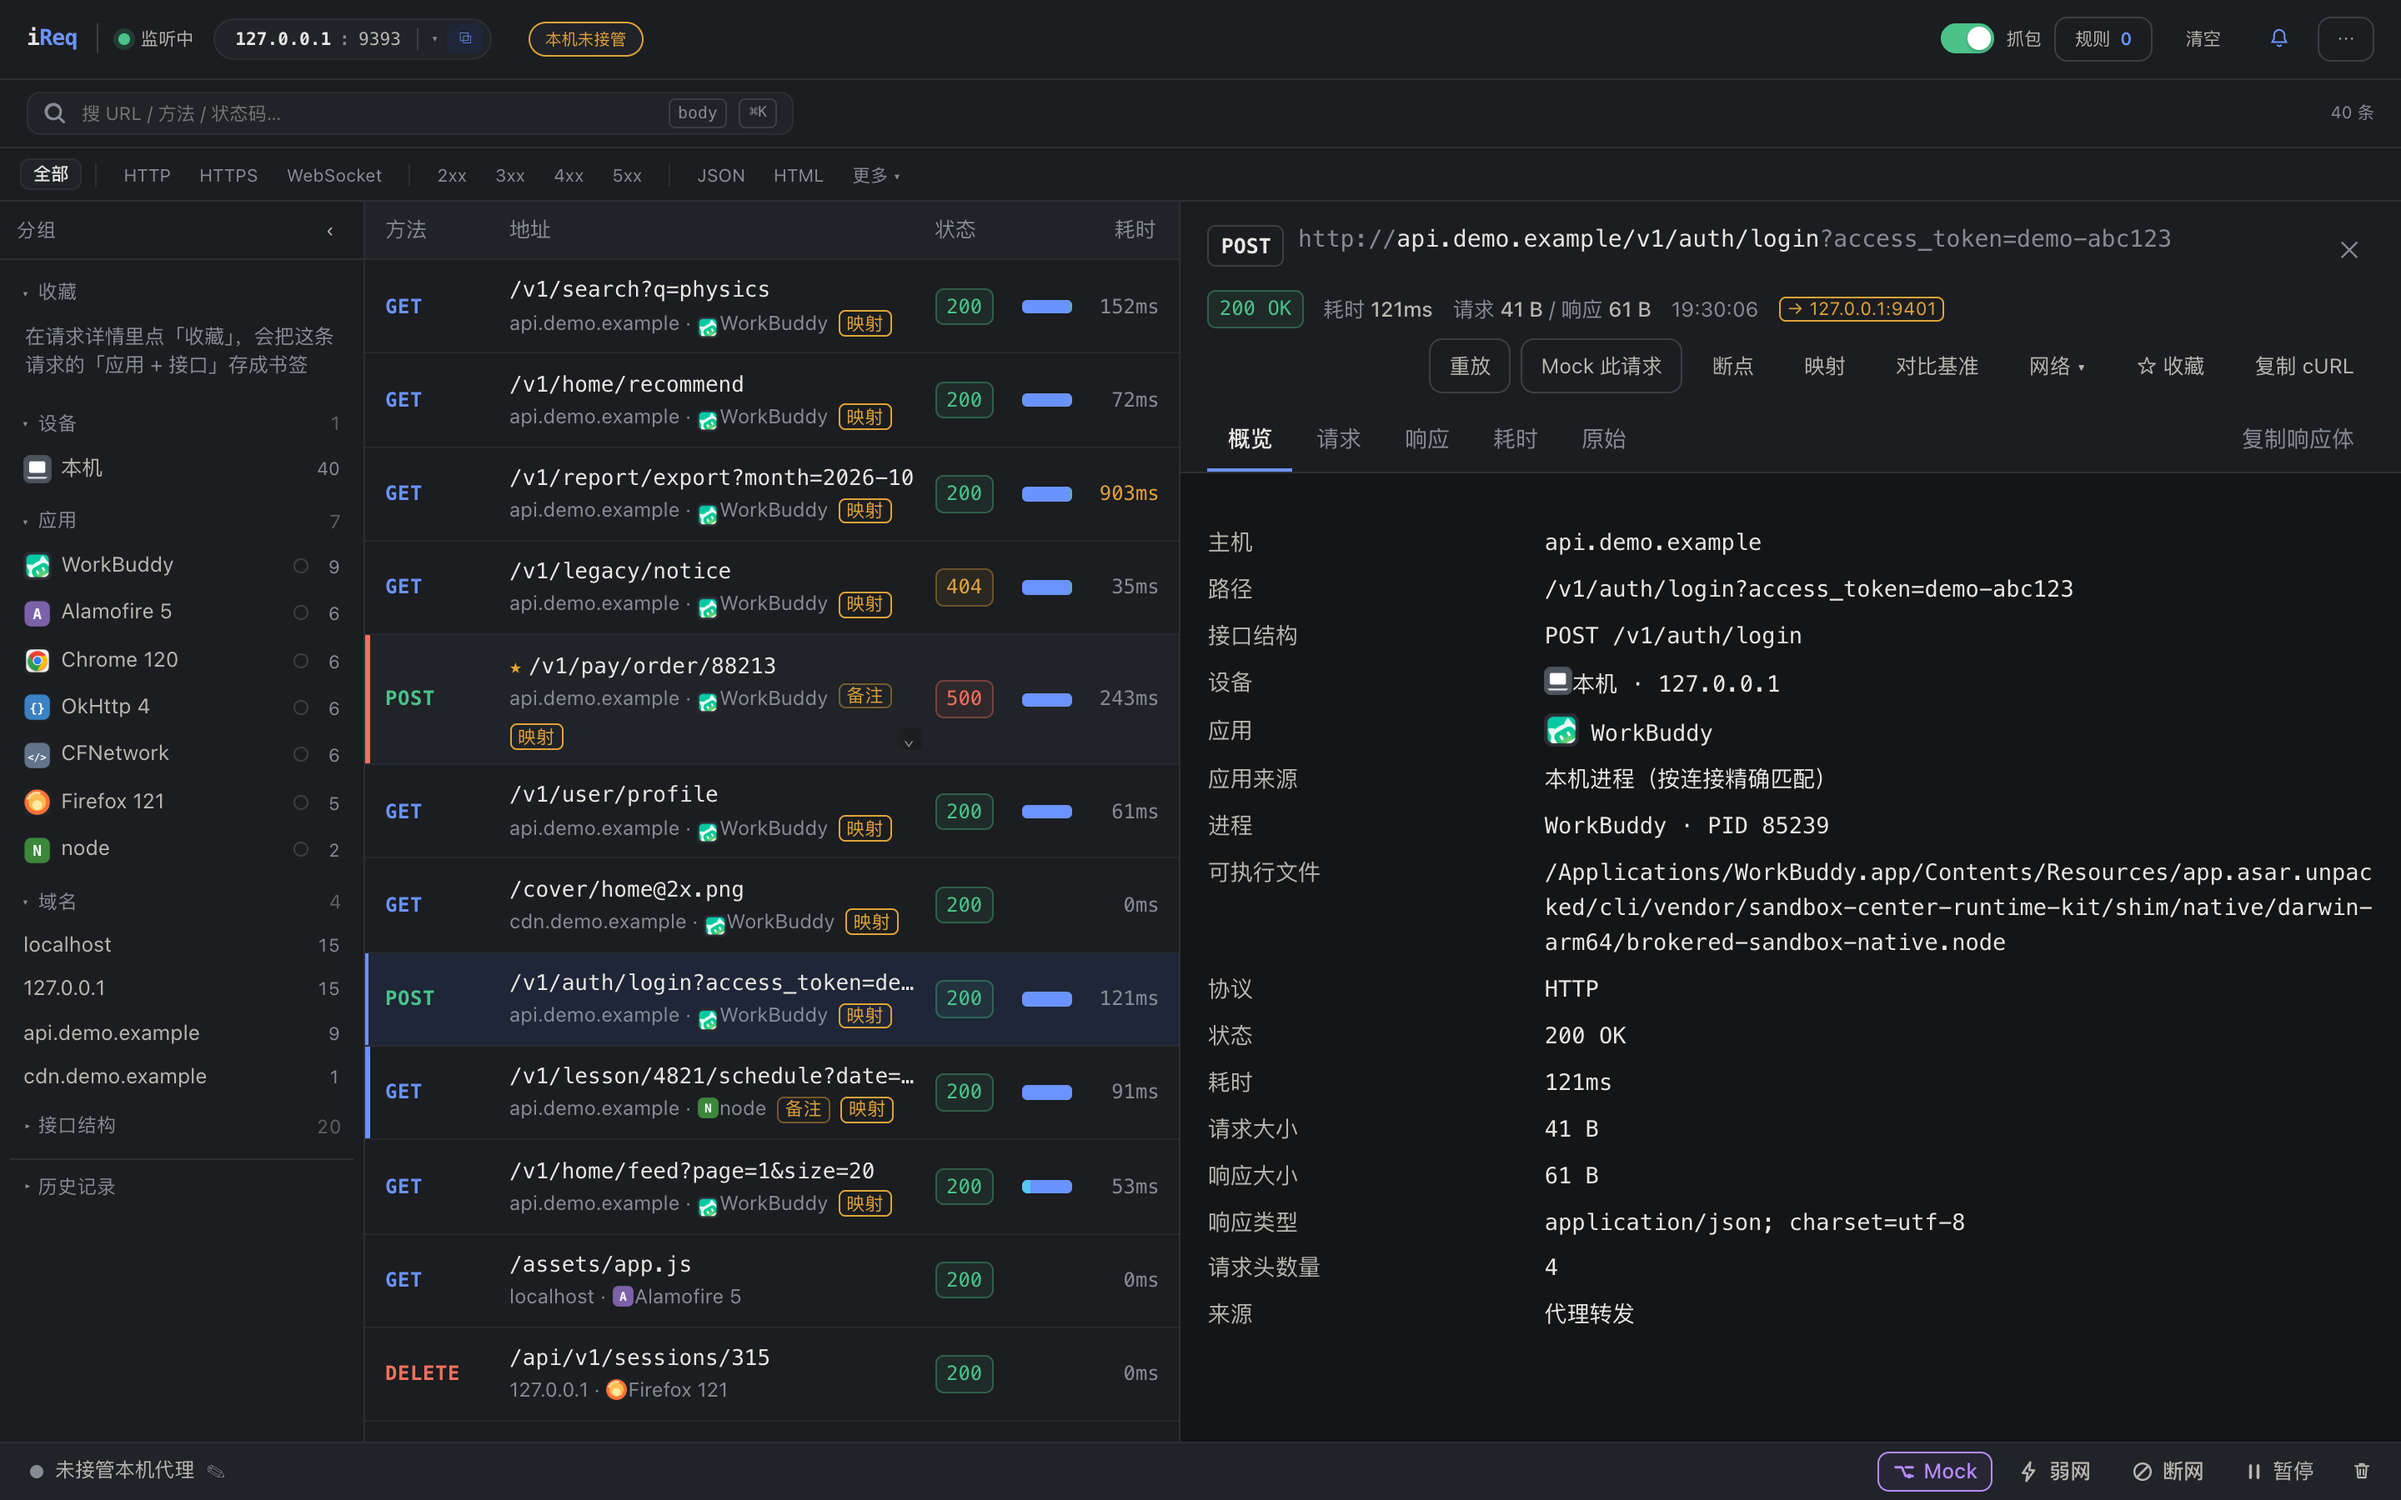
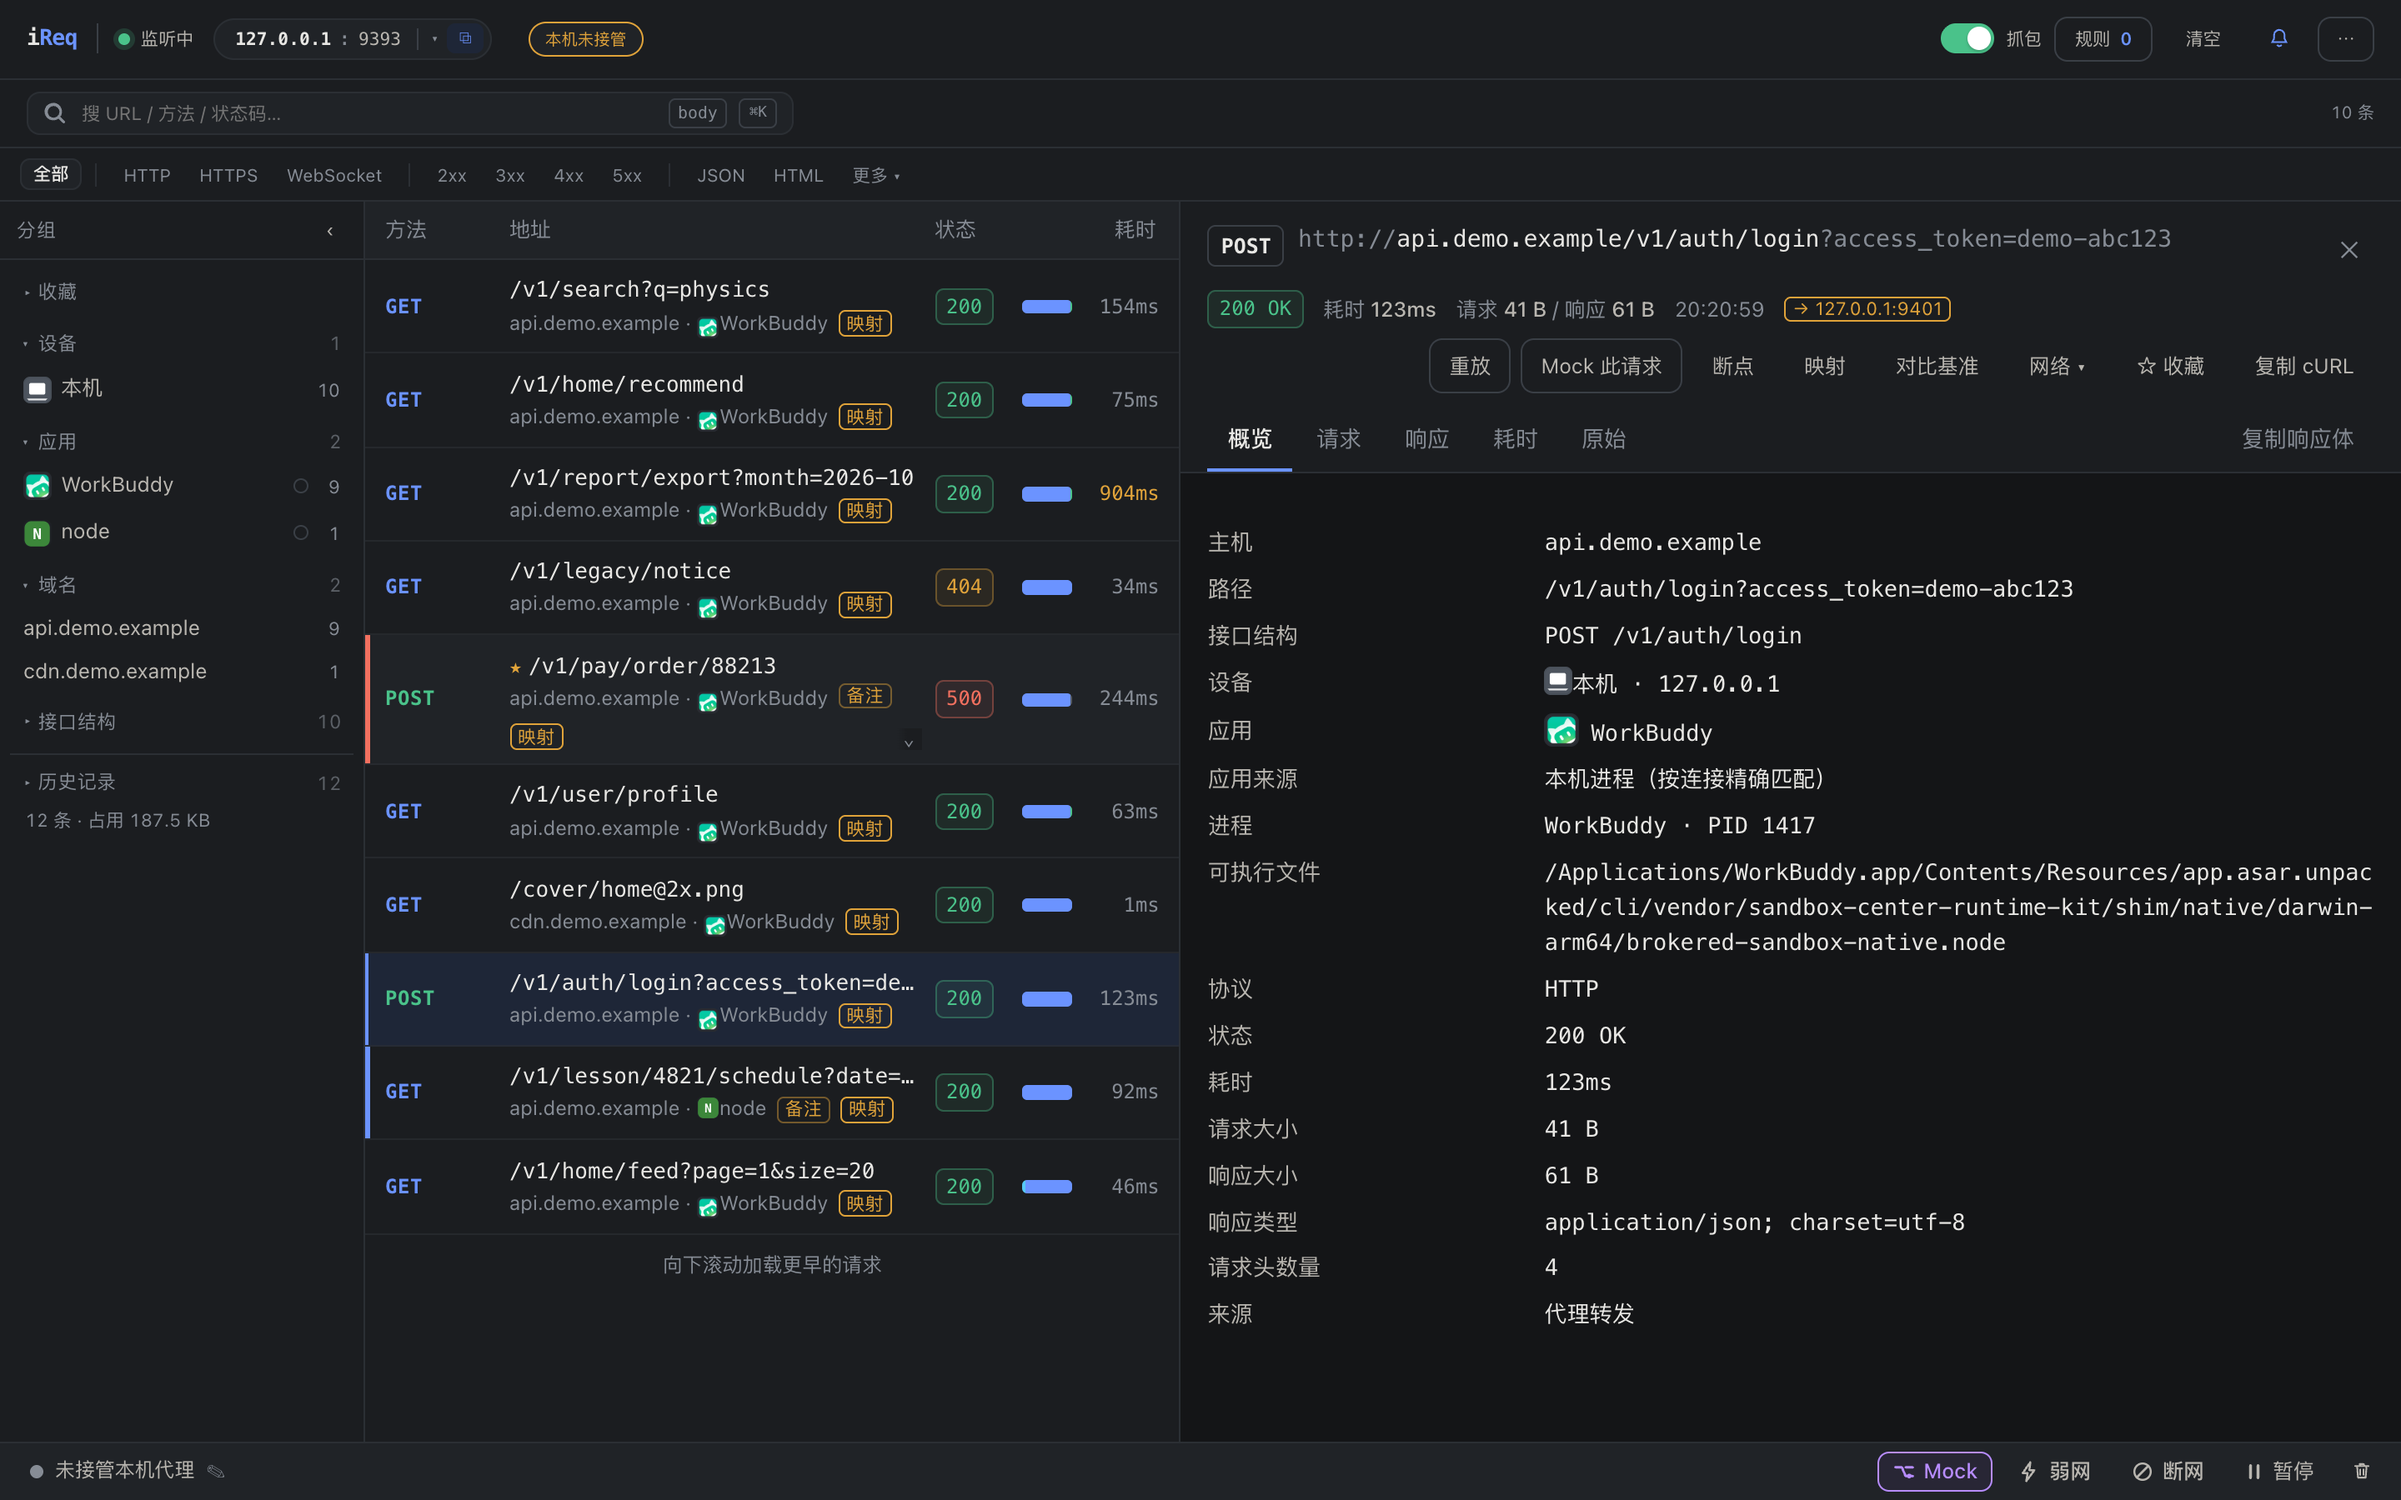
style: 收藏分组默认收起，书签描述改成人话
侧栏第三组也收起（收藏 / 接口结构 / 历史记录），只留标题 + 条数。
书签悬停原来是 JSON.stringify(filter) 一整行，现在给「应用 周周学 · 域名 x · 接口 GET /y」；
空态文案从 32 字收到「详情里点「收藏」即可存成书签」，字典同步替换。
点详情里的「收藏」会顺手把分组张开，让刚存的这条看得见。

自检：check-sidebar 补「收藏默认收起」；check-device / check-app-cascade 里点书签前
先展开分组（默认收起后元素不可见）。全套 50/50。

diff --git a/public/app.js b/public/app.js
@@ -1436,7 +1436,7 @@ function activeFilterKeys() {
 
 /* 侧栏分组的折叠判定：closedGroups 记「明确收起」，openedGroups 记「明确展开」。
  * 历史记录与接口结构是低频入口（接口结构尤其长），默认收起，只露标题和条数。 */
-const DEFAULT_CLOSED_GROUPS = new Set(['history', 'routes']);
+const DEFAULT_CLOSED_GROUPS = new Set(['history', 'routes', 'bookmarks']);
 
 function groupClosed(key) {
   if (S.closedGroups.has(key)) return true;
@@ -1771,12 +1771,24 @@ function routeGroupHtml(section) {
   </div>`;
 }
 
+/** 书签的可读描述：悬停时给一行「应用 X · 域名 Y」，不再甩一坨 JSON */
+function bookmarkFilterText(filter) {
+  // 固定顺序（应用 → 设备 → 域名 → 接口 → 搜索），别按 JSON 键序乱排
+  const parts = ['app', 'ip', 'host', 'route', 'q']
+    .filter((k) => {
+      const v = (filter || {})[k];
+      return v !== '' && v != null && !(Array.isArray(v) && v.length === 0);
+    })
+    .map((k) => `${FILTER_LABELS[k] || k} ${facetDisplay(k, filter[k])}`);
+  return parts.length ? parts.join(' · ') : '全部请求';
+}
+
 function bookmarkGroupHtml() {  const closed = groupClosed('bookmarks');
   const active = activeFilterKeys().length > 0;
   const items = S.bookmarks
     .map(
       (b) => `<div class="sitem ${sameFilter(b.filter) ? 'on' : ''}" data-bookmark="${b.id}" title="${esc(
-        JSON.stringify(b.filter)
+        bookmarkFilterText(b.filter)
       )}">
         <span class="lbl">★ ${esc(b.label)}</span>
         <button class="del" data-del-bookmark="${b.id}" title="删除书签">✕</button>
@@ -1793,7 +1805,7 @@ function bookmarkGroupHtml() {  const closed = groupClosed('bookmarks');
       ${active ? '<div class="sitem" data-save-bookmark="1"><span class="lbl">＋ 收藏当前筛选</span></div>' : ''}
       ${
         !S.bookmarks.length && !active
-          ? '<div class="side-empty">在请求详情里点「收藏」，会把这条请求的「应用 + 接口」存成书签</div>'
+          ? '<div class="side-empty">详情里点「收藏」即可存成书签</div>'
           : ''
       }
     </div>
@@ -1862,6 +1874,9 @@ function renderChips() {
 async function saveBookmark(filter, label) {
   try {
     await api('/api/bookmarks', { method: 'POST', body: { filter, label } });
+    // 收藏是「手动」动作：顺手把分组张开，让刚存的这条看得见（默认是收起的）
+    S.openedGroups.add('bookmarks');
+    localStorage.setItem('reqlite-side-opened', JSON.stringify([...S.openedGroups]));
     await loadBookmarks();
     toast('已收藏');
   } catch (err) {

diff --git a/tools/check-sidebar.js b/tools/check-sidebar.js
@@ -38,6 +38,8 @@ const { seedFlows } = require('./_seed');
   const histLast = groups.length > 0 && groups[groups.length - 1].title === '历史记录';
   const histClosed = await page.$eval('.sgroup.hg', (e) => e.classList.contains('closed')).catch(() => false);
   checks.push(['历史记录排最后且默认收起', histLast && histClosed, `last=${groups[groups.length - 1] && groups[groups.length - 1].title} closed=${histClosed}`]);
+  const bookmarksClosed = await page.$eval('[data-group="bookmarks"]', (e) => e.classList.contains('closed')).catch(() => false);
+  checks.push(['收藏默认收起', bookmarksClosed]);
   const routesClosed = await page.$eval('[data-group="routes"]', (e) => e.classList.contains('closed')).catch(() => false);
   checks.push(['接口结构默认收起', routesClosed]);
   await page.click('[data-toggle="routes"]');

diff --git a/tools/check-device.js b/tools/check-device.js
@@ -213,6 +213,12 @@ function viaLan(lan) {
   ok('筛选条件用合并后的 key', filtered.ip === 'local' && filtered.rows > 0);
   ok('筛选结果只有本机地址', filtered.ips.every((ip) => ['127.0.0.1', LAN, '::1'].includes(ip)));
 
+  // 收藏分组默认收起：先展开，否则「收藏当前筛选」不可见
+  await page.evaluate(() => {
+    const g = document.querySelector('[data-group="bookmarks"]');
+    if (g && g.classList.contains('closed')) g.querySelector('[data-toggle="bookmarks"]').click();
+  });
+  await page.waitForTimeout(250);
   const saveBtn = await page.$('[data-save-bookmark]');
   if (saveBtn) {
     await saveBtn.click();

diff --git a/tools/check-app-cascade.js b/tools/check-app-cascade.js
@@ -212,6 +212,12 @@ async function waitUi() {
     });
     await page.reload({ waitUntil: 'networkidle' });
     await page.waitForTimeout(700);
+    // 收藏分组默认收起：先展开再点书签
+    await page.evaluate(() => {
+      const g = document.querySelector('[data-group="bookmarks"]');
+      if (g && g.classList.contains('closed')) g.querySelector('[data-toggle="bookmarks"]').click();
+    });
+    await page.waitForTimeout(250);
     await page.click('[data-bookmark]');
     await page.waitForTimeout(700);
     push('老书签应用后列表 2 条（应用归一成数组）', await page.evaluate(() =>

diff --git a/public/i18n-en.js b/public/i18n-en.js
@@ -143,7 +143,7 @@ window.ReqLiteI18N_EN = {
   "响应体": "Response body",
   "响应头": "Response headers",
   "响应设置": "Response settings",
-      "在请求详情里点「收藏」，会把这条请求的「应用 + 接口」存成书签": "Click \"Bookmark\" in a request's details to save its \"App + API\" as a bookmark",
+      "详情里点「收藏」即可存成书签": "Click \"Bookmark\" in the details to save one",
   "地址": "URL",
   "域名": "Host",
   "基本信息": "Basic info",

diff --git a/docs/feature-matrix.md b/docs/feature-matrix.md
@@ -23,7 +23,7 @@
 | 响应对比 | 重放 vs 原请求，JSON 按结构比、文本按行比 |
 | 弱网 / 断网 / 超时 | 按规则命中，实时切断存量隧道 |
 | 搜正文、按列排序 | 搜索范围可扩到 body；状态 / 耗时 / 大小可排序 |
-| 会话（历史记录） | 清空留档、回看、改名、导出 HAR / JSON；入口在侧栏最下面、默认收起（接口结构同样默认收起），不挤占高频分组 |
+| 会话（历史记录） | 清空留档、回看、改名、导出 HAR / JSON；入口在侧栏最下面、默认收起，不挤占高频分组 |
 | HAR 导出 | HAR 1.2，含扩展字段，可直接给别的工具看 |
 | 多语言、精简顶栏、命令面板 | ⌘K 既能搜请求也能执行命令 |
 | 域名映射 | 只换「连哪台机器」：URL / Host 头 / SNI 仍是原域名，支持 `*` 通配与路径前缀 |
@@ -39,6 +39,7 @@
 | 脚本规则 | 沙箱里的 `onRequest` / `onResponse` 同步钩子，改方法 / 地址 / 头 / 状态码 / body；无网络无文件、单次 50ms 超时 |
 | 脱敏开关 | 一个开关决定导出与 MCP 输出要不要打码：凭据类头 / 查询参数 / 正文字段，认证头保留 scheme；面板里两栏对照真实流量，**界面永远原值** |
 | 详情面板按需打开 | 没选中请求时不占位，列表吃满宽度（多看几列 URL）；选中自动展开，头部 ✕ 关闭；分组栏标题与列表表头同高，顶部不参差 |
+| 侧栏按需展开 | 收藏 / 接口结构 / 历史记录三组默认收起，只留标题 + 条数；手动展开过就记住。书签悬停给一行「应用 · 域名 · 接口」，不再甩 JSON |
 | 详情上下分割 | 请求 / 响应页里「头部 ↔ 正文」之间一条可上下拖的线，双击复位，比例记在本地；正文的「结构化 / 原始」用与顶部页签同一套样式 |
 | 长域名折叠 | 域名被截断时悬停出现展开标识，点一下换行显示完整，再点收起；没截断的行点字仍是正常选中 |
 | 会话总览 | 六张卡（请求 / 错误 / 4xx / P50 / P95 / 传输）+ 状态分布 + 域名 + 最慢接口 / 请求；一键复制或下载 Markdown 报告，报告里的 URL 走脱敏配置 |
